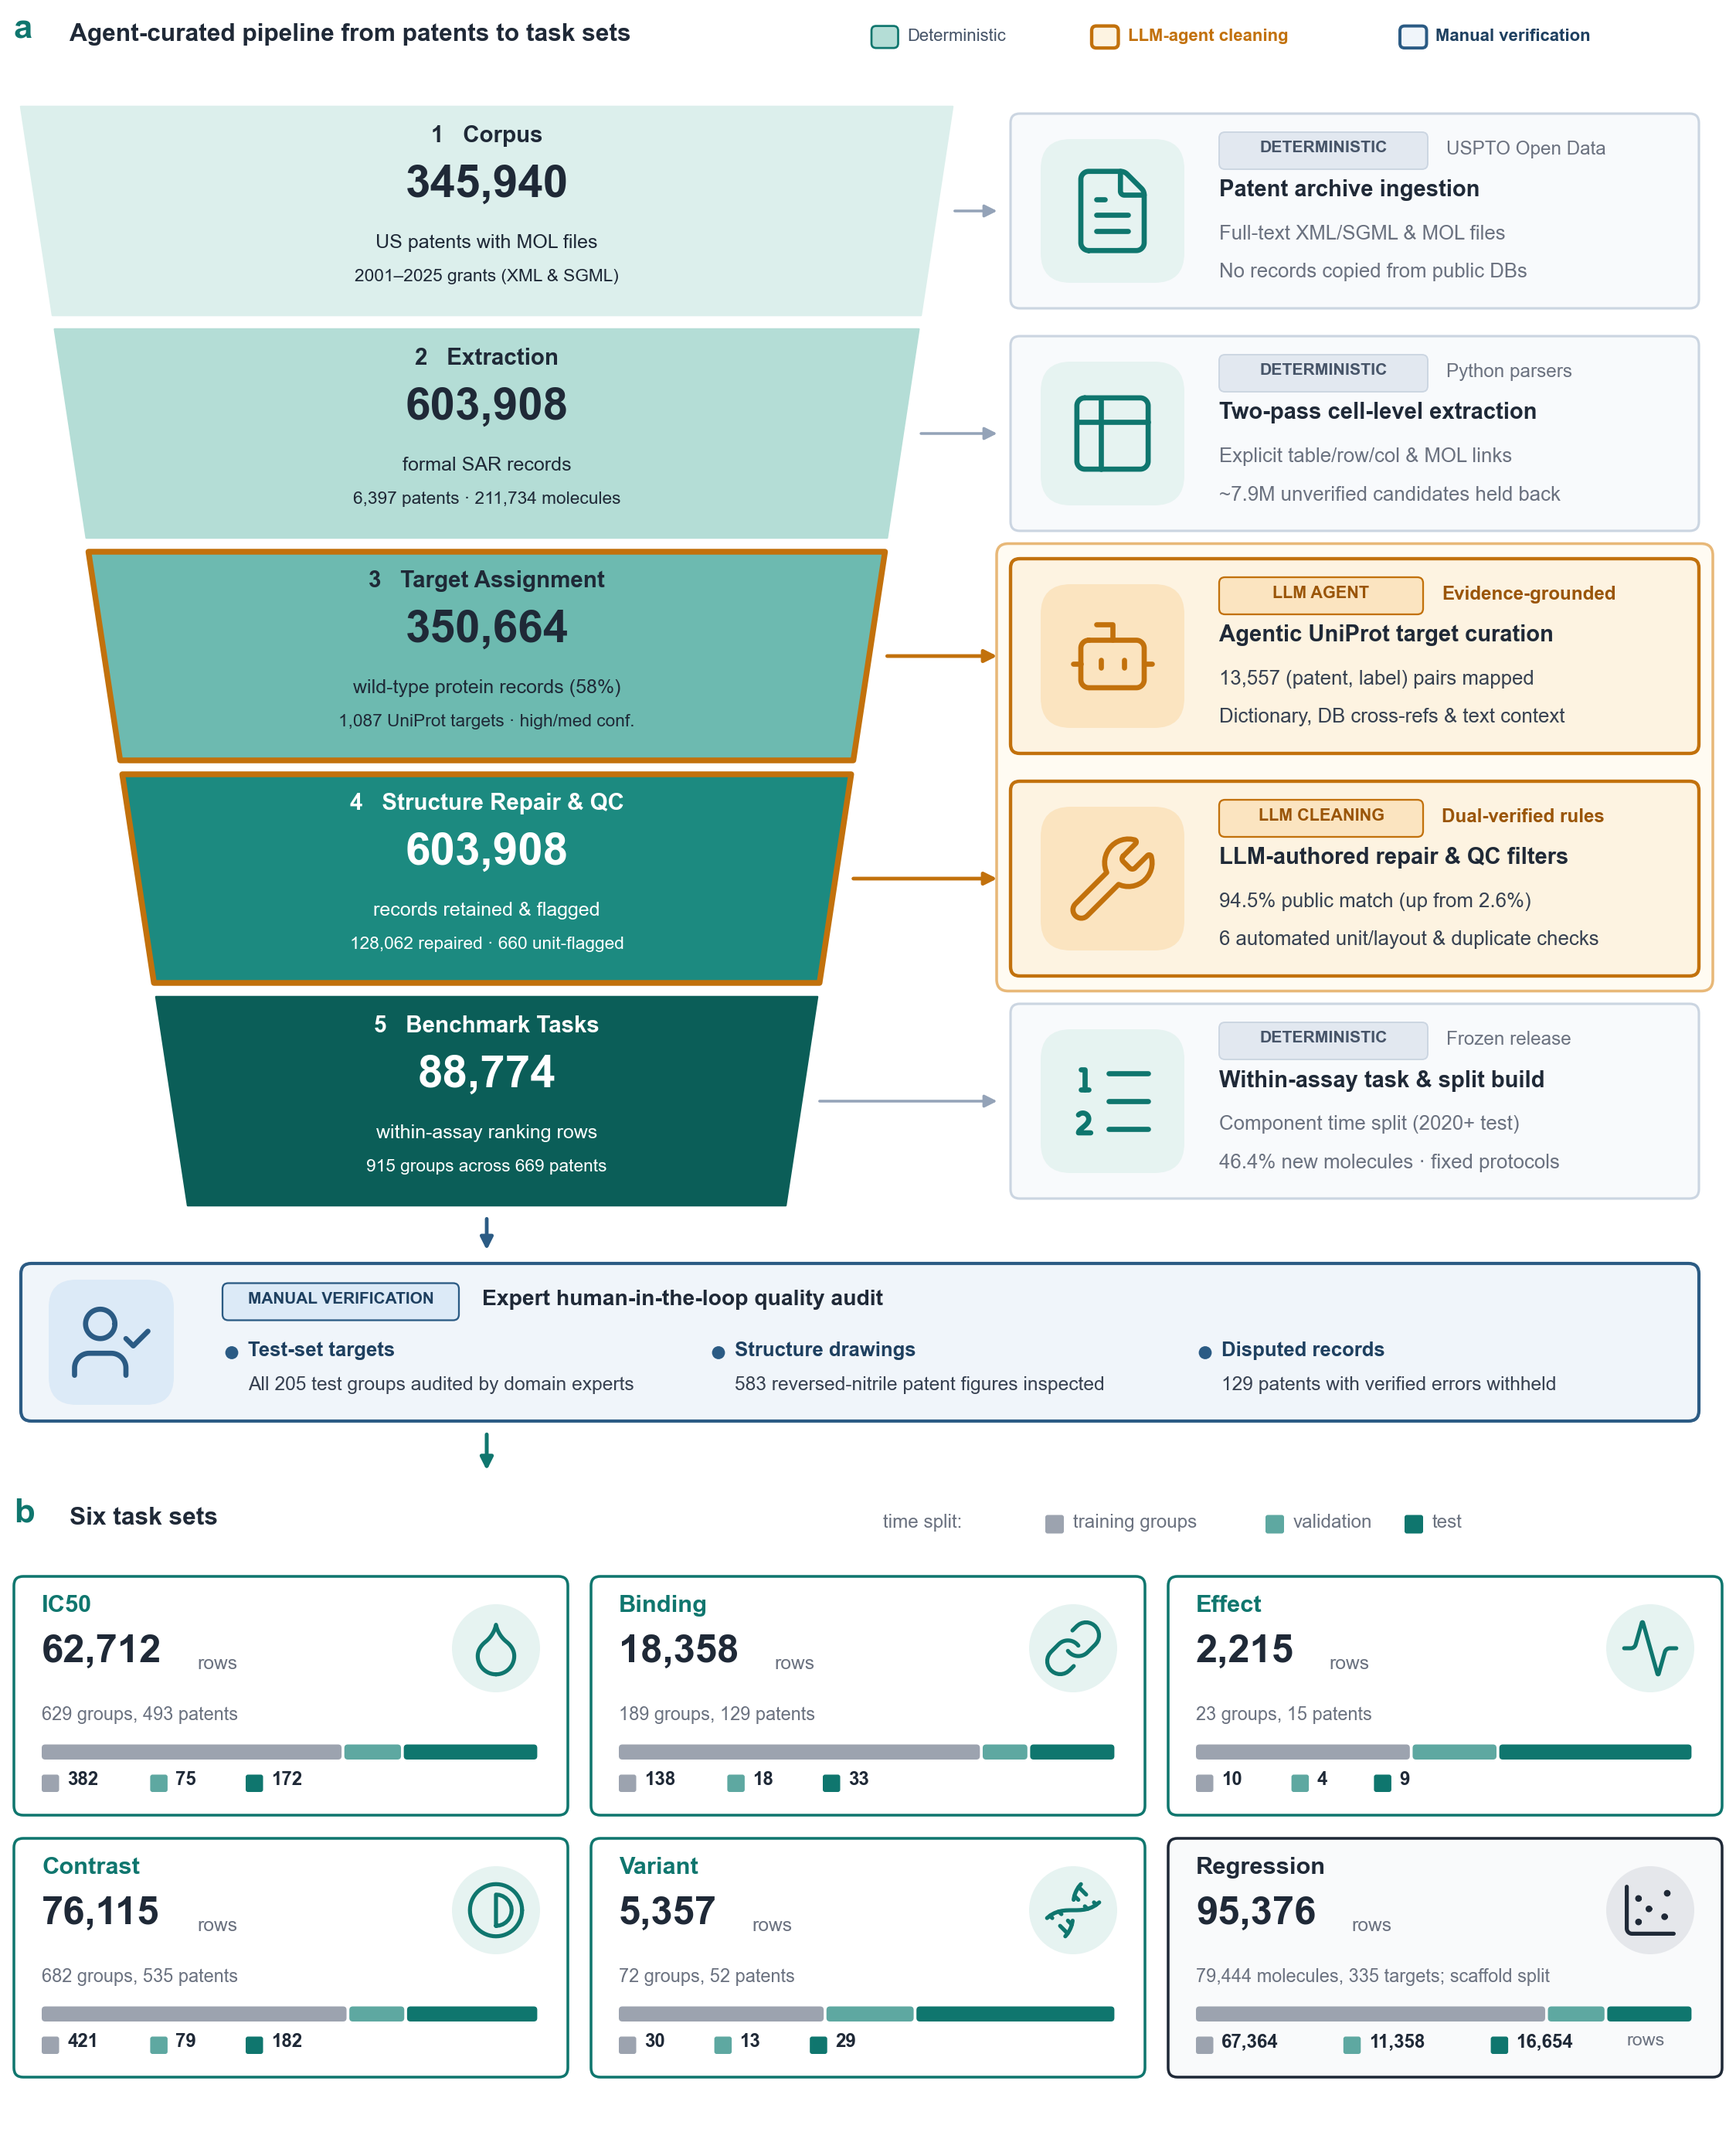
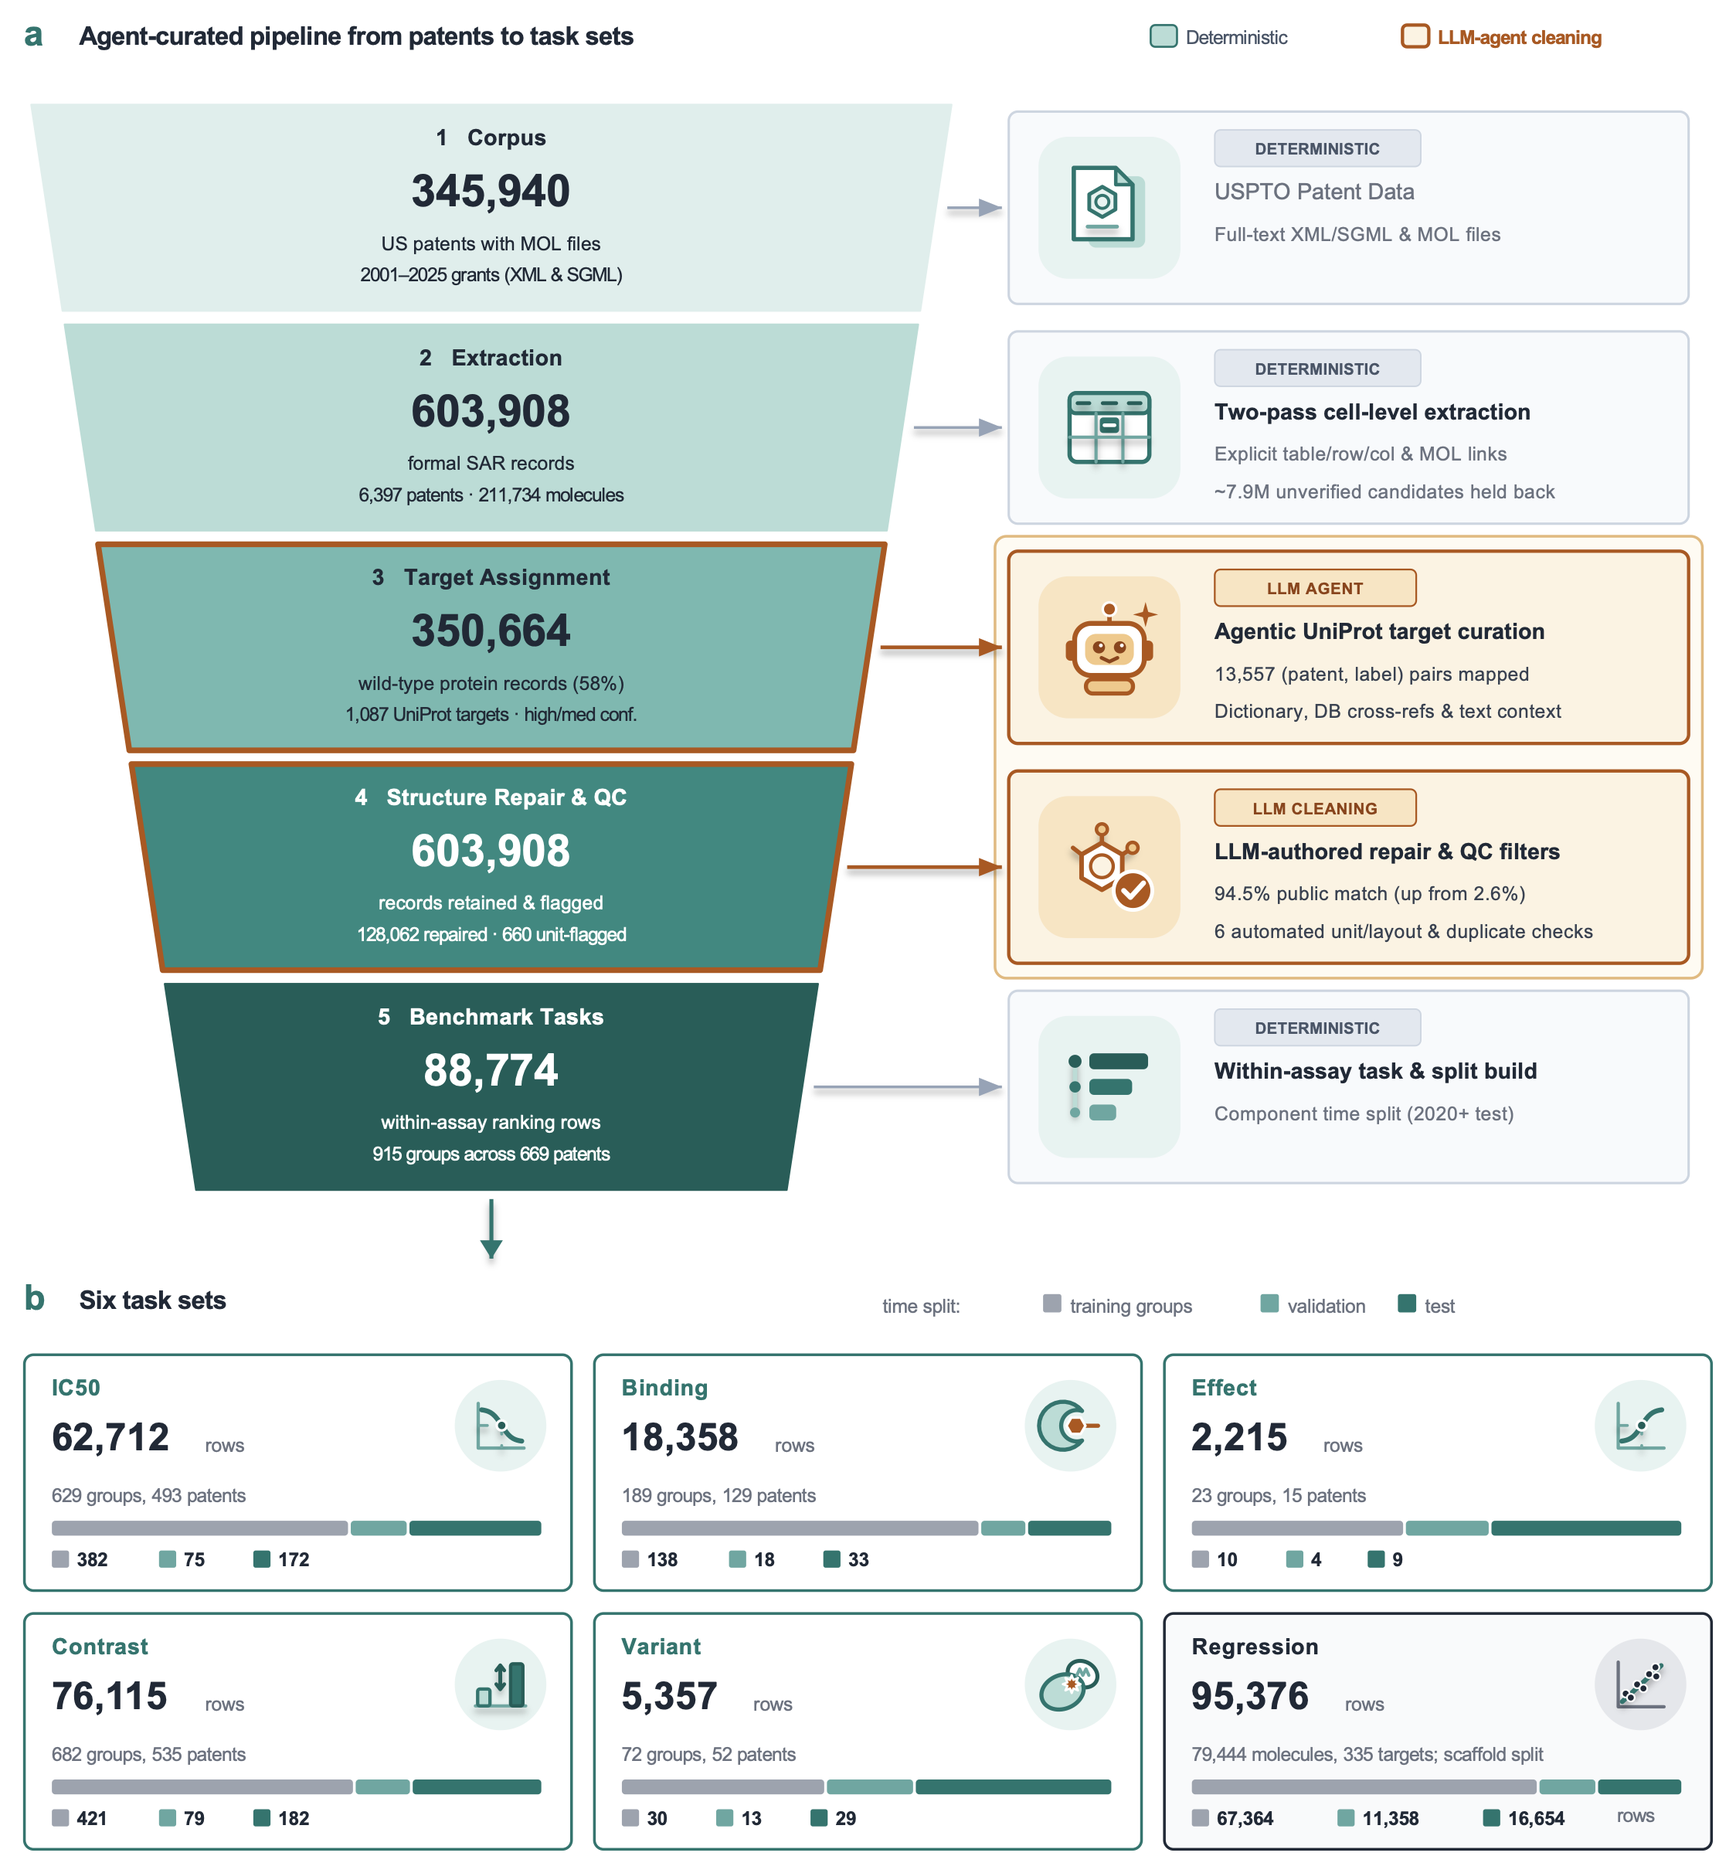
Update Fig. 1 to the final version, add data README with figshare contents, fix CI runner
- assets/fig1_overview.png: final Fig. 1 of the article; caption no longer mentions expert manual verification
- data/README.md: contents of the figshare deposit, licence, citation and the unpack/verify commands
- CI: pin ubuntu-24.04 (Python 3.9 is not available on ubuntu-latest, which made the first run fail)

diff --git a/data/README.md b/data/README.md
@@ -1,12 +1,64 @@
-# Data
+# PatBench: an agent-curated patent bioactivity dataset for within-assay affinity model benchmarking
 
-Dataset files are not tracked in git. Download **PatBench v1.0** from figshare (CC BY 4.0):
+## Overview
 
-- **DOI:** <https://doi.org/10.6084/m9.figshare.34925475>
+PatBench is an open, traceable structure–activity dataset built from 345,940 US patent grants with chemical structure (MOL) files published between 2001 and 2025. Deterministic extraction code parsed 603,908 formal structure–activity records from 6,397 patents (211,734 parent molecules; 14 bioactivity endpoints), after which language-model agents automated UniProt target curation (1,087 targets) and authored deterministic structure-repair code that expanded abbreviated substituent placeholders and reversed nitriles across 128,062 records (raising public-database structure match rates from 2.6% to 94.5%). Quality filters flag unit errors, duplicate tables, substituent fragments and disputed entries without deleting any underlying record, supplemented by expert manual verification of all 205 IC50 and Binding test-group targets and visual inspection of 583 reversed-nitrile patent drawings.
 
-Place the downloaded files in this directory, then unpack and verify:
+Every evaluation group comprises compounds measured in a single patent under one assay label, endpoint and assigned UniProt target, enabling within-assay molecular ranking benchmarks aligned with lead optimisation. Among 200,101 affinity-record molecules outside substituent tables, 46.4% are absent from BindingDB (release 2026-09) and ChEMBL 37.
+
+## Deposit Contents
+
+All tabular datasets are distributed in Apache Parquet format (total deposit size: ~124.5 MB across 10 files):
+
+| File | Size | Description |
+| --- | ---: | --- |
+| `sar_all.parquet` | 67.6 MB | Master table of all 603,908 formal records across 86 fields (cell-level provenance, parent and as-drawn structures, pre-repair SMILES/InChIKeys, applied structure-repair rules, pAct values, UniProt target assignments, quality/exclusion flags, public-database novelty flags and five split columns). |
+| `tasks.zip` | 26.8 MB | Five within-assay ranking tasks (`rank_ic50`, `rank_ki_kd`, `rank_ec50`, `rank_highcontrast`, `rank_complex_mutant`: 915 groups, 88,774 unique rows) and one pooled regression task (`regression_affinity`: 95,376 rows). |
+| `eval_all.zip` | 17.8 MB | Unified evaluation sets packaging all groups across splits for zero-shot benchmarking of external models not trained on PatBench (818 deduplicated IC50 and Binding groups, including 245 novel groups). |
+| `baselines.zip` | 8.4 MB | Reference baseline predictions (random, heavy-atom count, Crippen logP and ECFP4 random forest) and leaderboard summary (`leaderboard.csv`). |
+| `protocols.zip` | 2.2 MB | Frozen few-shot evaluation splits (`k = 5` and `k = 10`, five random draws each) and fixed activity-cliff pair lists (ECFP4 Tanimoto >= 0.85, potency difference >= 1.0 log). |
+| `targets.parquet` | 0.8 MB | Canonical sequences, protein names, gene symbols and organisms for all 1,087 assigned UniProt entries. |
+| `groups.parquet` | 0.6 MB | Group-level summary statistics across all 13,122 patent assay groups (compound counts, potency span, assay labels, UniProt accessions, inferred families and group-level flags). |
+| `target_sequences.parquet` | 0.3 MB | Exact target sequences for all 915 ranking groups (835 full-length canonical sequences, 47 complex primary subunits, 25 mutation-applied sequences and 8 mature chains). |
+| `release_manifest.json` | 22 KB | Machine-readable build parameters, random seeds, quality-flag counts and task statistics. |
+| `README.md` | ~6 KB | This documentation file. |
+
+Each `.zip` archive preserves its relative folder name (`tasks/`, `eval_all/`, `baselines/`, `protocols/`) so extracting all archives into a single directory reconstructs the full release tree.
+
+## Using the files with this repository
+
+Download the ten files from figshare into this directory (it is ignored by git), then unpack and verify:
 
 ```bash
 patbench unpack data --out /tmp/patbench_data
 patbench verify-release /tmp/patbench_data
+```
+
+## Accompanying Code
+
+Processing, release verification and patent-cluster bootstrap evaluation scripts are openly available under the MIT licence at:
+
+- **Code repository:** <https://github.com/evonexor/PatBench>
+
+## Licence and Third-Party Terms
+
+- **PatBench dataset:** Released under the **Creative Commons Attribution 4.0 International (CC BY 4.0)** licence (<https://creativecommons.org/licenses/by/4.0/>). You are free to share and adapt the dataset for any purpose, provided appropriate credit is given.
+- **USPTO source patents:** All bioactivity measurements and chemical structures are derived exclusively from public US Patent and Trademark Office (USPTO) patent grants (2001–2025). PatBench makes no representation regarding patent validity, enforceability or freedom to operate.
+- **External reference databases:** BindingDB (release 2026-09) and ChEMBL 37 were used solely for comparison, novelty annotation and unit/structure auditing; no bioactivity records were copied from either database. UniProt sequences and cross-reference identifiers remain governed by the respective terms of UniProt, ChEMBL and BindingDB.
+
+## Citation
+
+If you use PatBench in your research, please cite:
+
+> Wu, W., Xiao, X., Gong, H., Li, A., Deng, S., Dai, B., Yang, G., Ge, H. & Chen, H. PatBench: an agent-curated patent bioactivity dataset for within-assay affinity model benchmarking. *figshare* https://doi.org/10.6084/m9.figshare.34925475 (2026).
+
+```bibtex
+@dataset{wu2026patbench,
+  title     = {PatBench: an agent-curated patent bioactivity dataset for within-assay affinity model benchmarking},
+  author    = {Wu, Wenfan and Xiao, Xianglu and Gong, Hao and Li, Ang and Deng, Shenglong and Dai, Boyuan and Yang, Guang and Ge, Hu and Chen, Hongming},
+  year      = {2026},
+  publisher = {figshare},
+  doi       = {10.6084/m9.figshare.34925475},
+  url       = {https://doi.org/10.6084/m9.figshare.34925475}
+}
 ```

diff --git a/README.md b/README.md
@@ -8,7 +8,7 @@ This repository contains **code only**. The released dataset is deposited on fig
 
 ![PatBench framework and task sets](assets/fig1_overview.png)
 
-*Figure 1. Overview of the PatBench agent-curated pipeline (deterministic extraction, LLM-agent target curation and structure cleaning, and expert manual verification) and the six benchmark task sets.*
+*Figure 1. Overview of the PatBench agent-curated pipeline (deterministic extraction, LLM-agent target curation and structure cleaning, and within-assay task construction) and the six benchmark task sets.*
 
 ## Dataset summary
 
